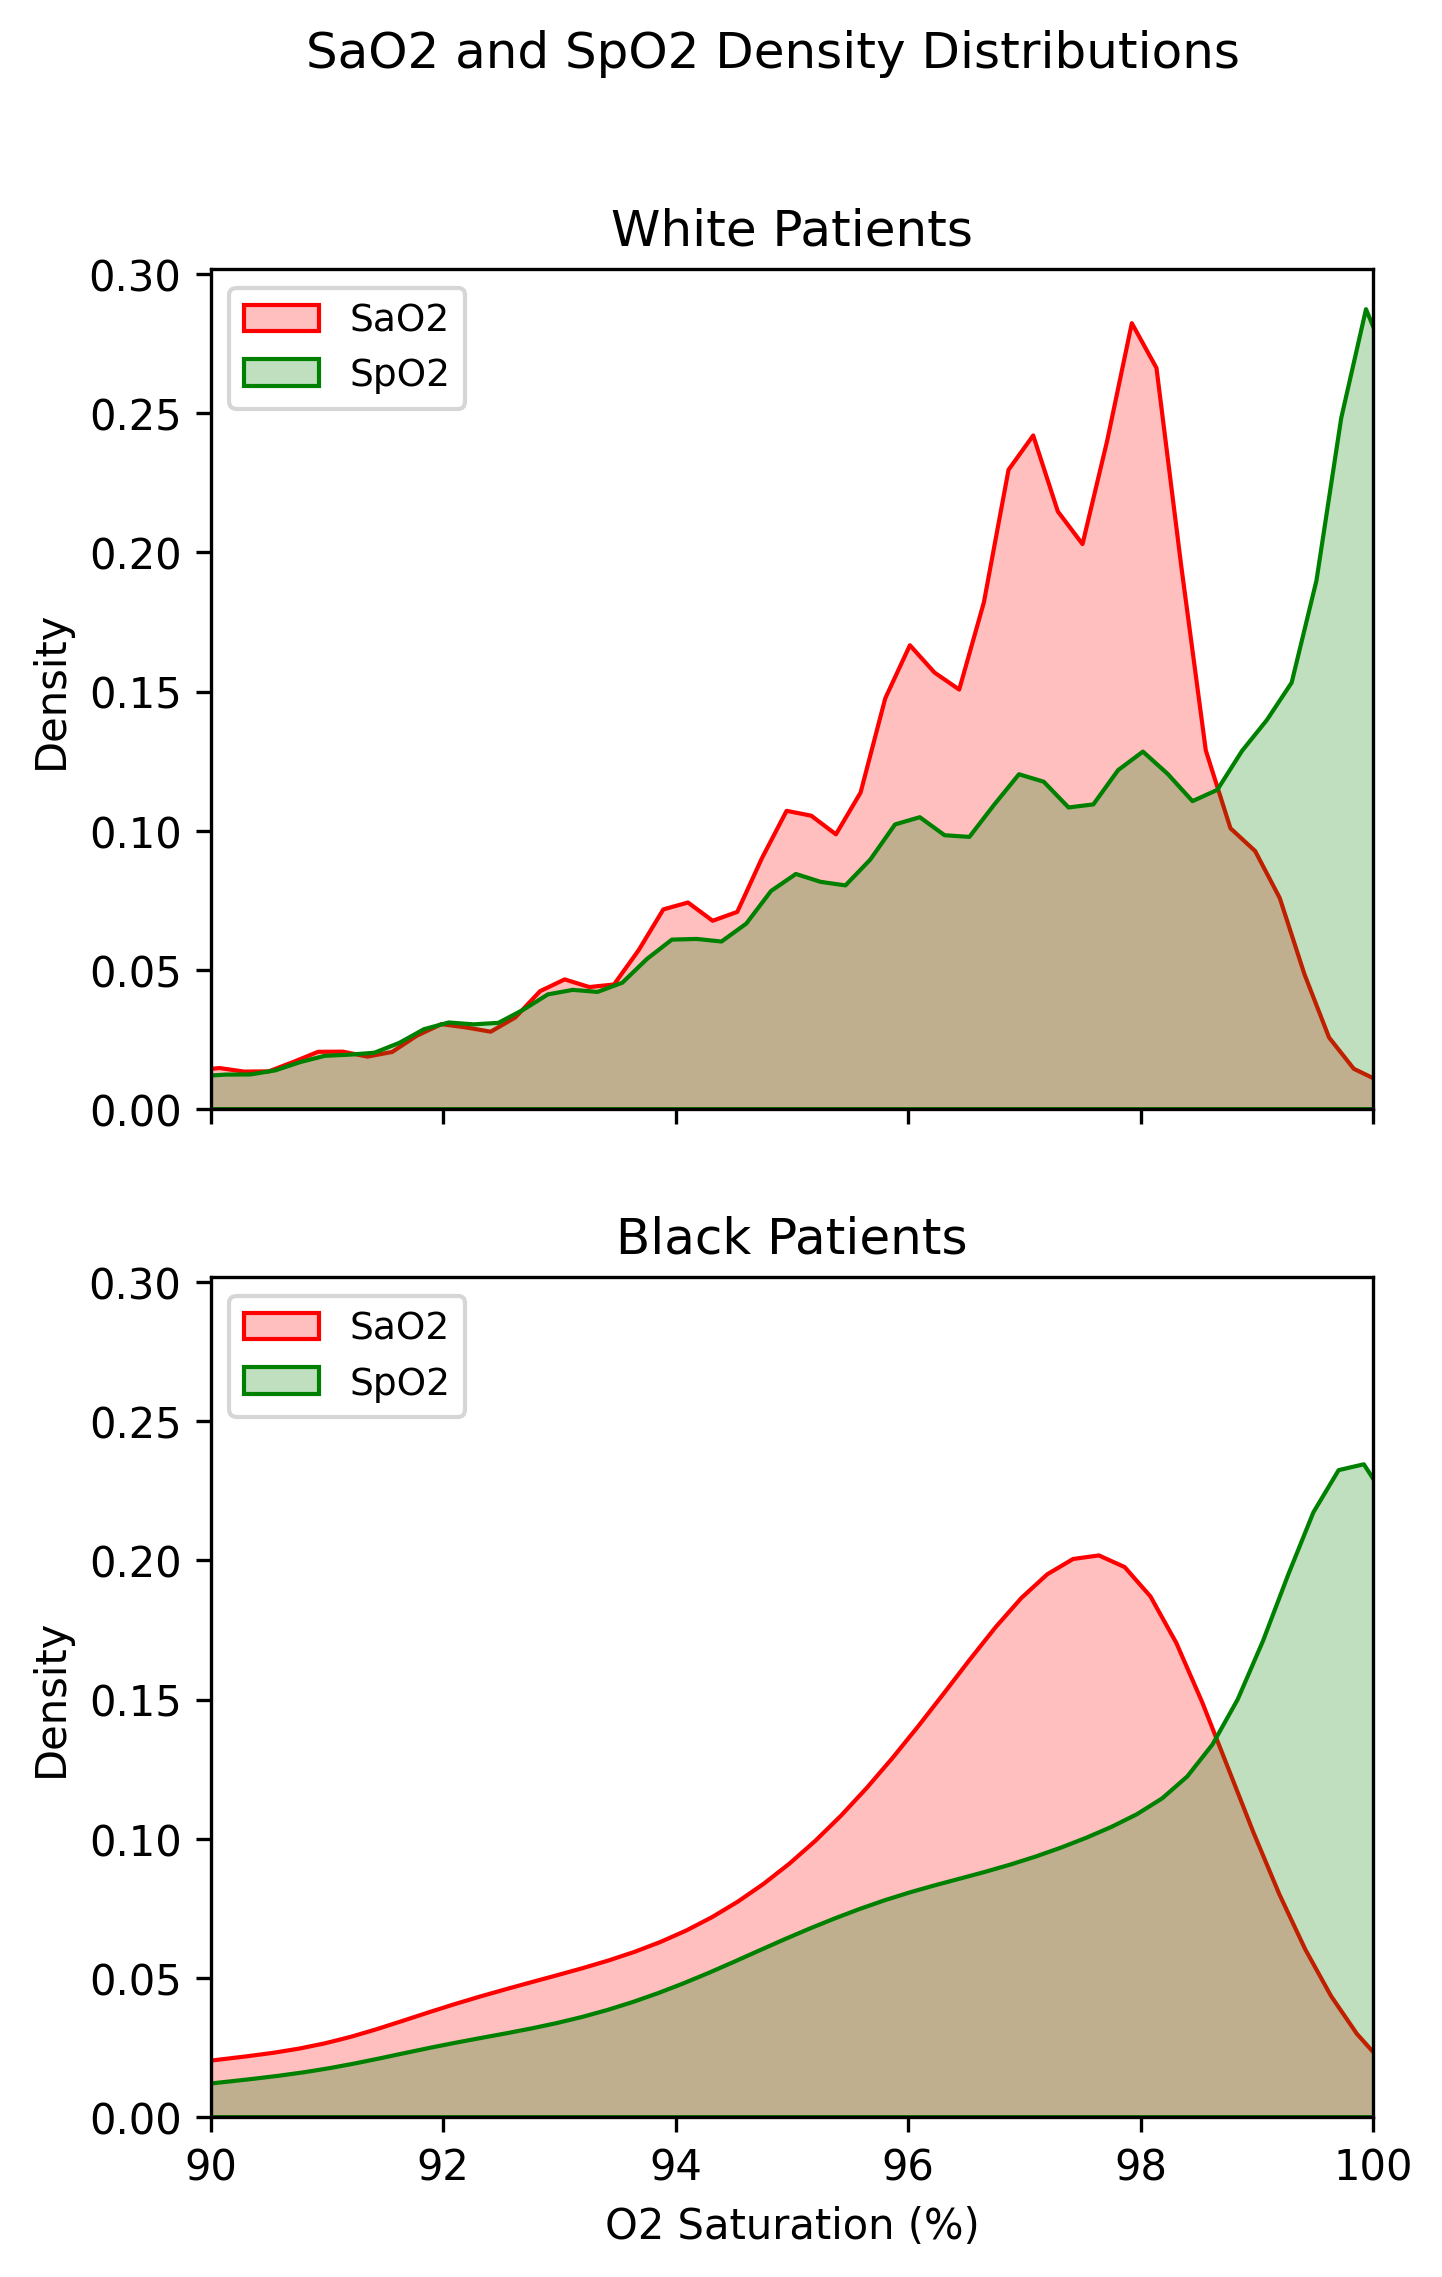
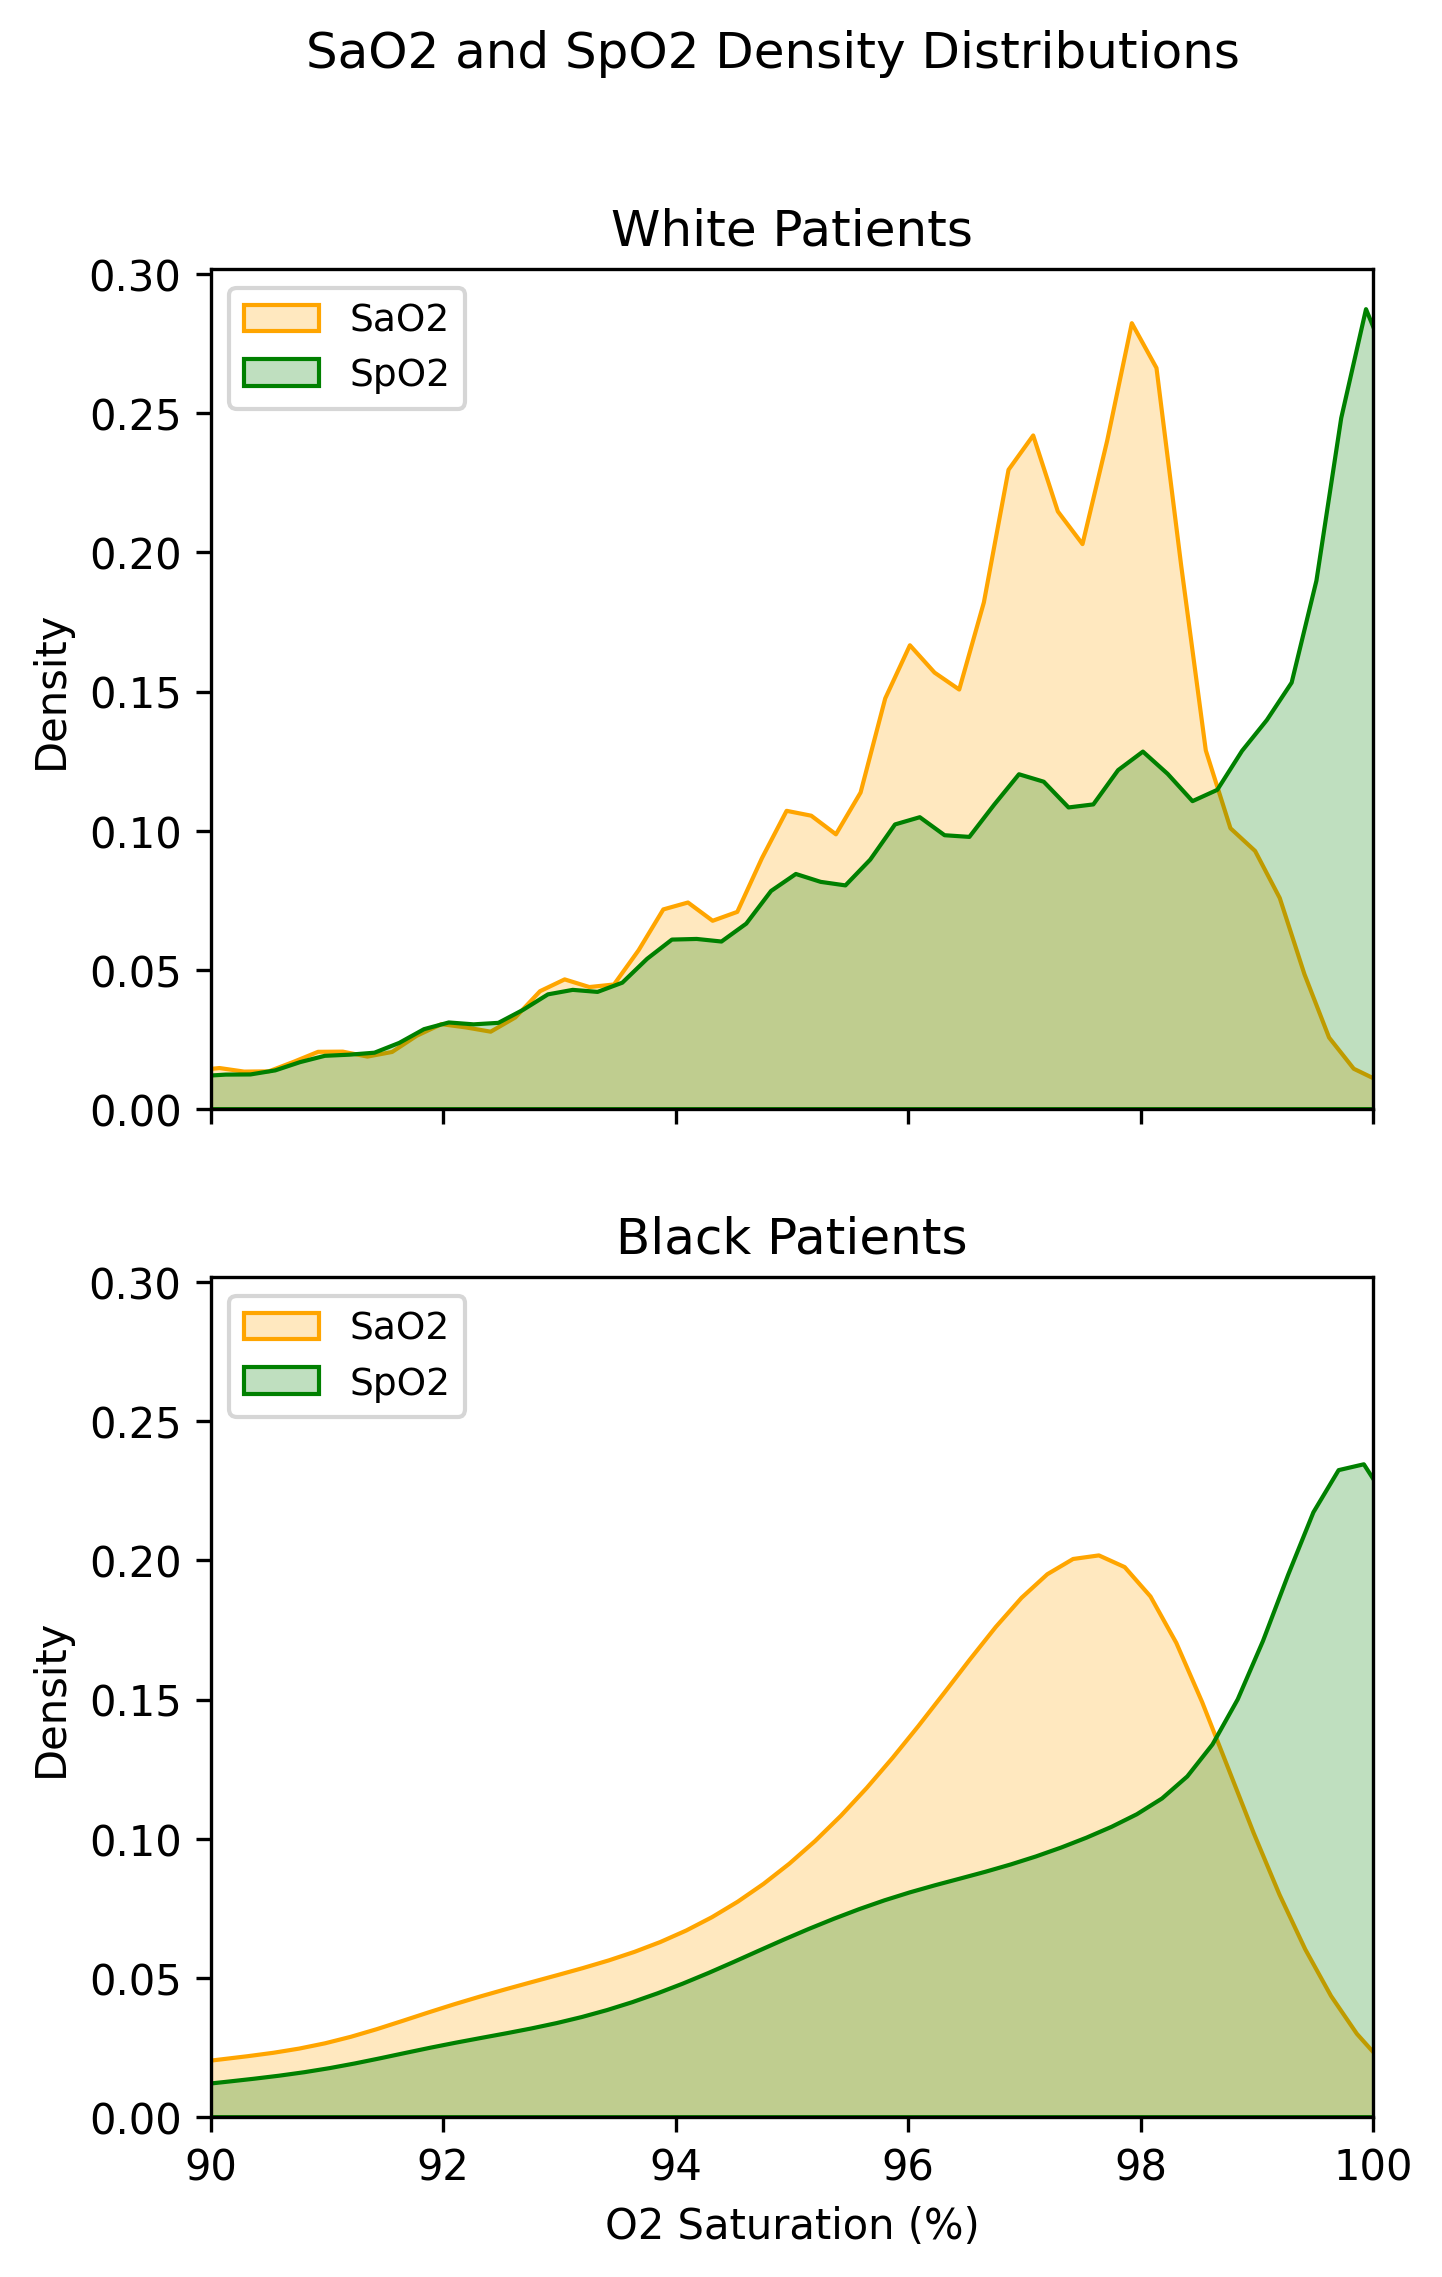
Split by subjects, evaluation metrics and fancy saving

diff --git a/src/utils.py b/src/utils.py
@@ -1,0 +1,94 @@
+import pickle 
+import pandas as pd
+import numpy as np
+from sklearn.metrics import r2_score, mean_squared_error
+from tabulate import tabulate
+
+
+def save_model(model, filename):
+    """Save a model to a file"""
+    with open(filename, 'wb') as file:
+        pickle.dump(model, file)
+
+def load_model(filename):
+    """Load a model from a file"""
+    with open(filename, 'rb') as file:
+        model = pickle.load(file)
+    return model
+
+def evaluate_model(model, X_test, y_test):
+    """Evaluate a model on a test set"""
+    # Make predictions on the validation set
+    y_pred = model.predict(X_test)
+
+    # Compute evaluation metrics on Validation
+    r2 = r2_score(y_test, y_pred)
+
+    # Adjusted R2
+    def adj_r2(r2, y_test, X_test):
+        n = len(y_test)
+        k = X_test.shape[1]
+        return 1 - (1 - r2) * (n - 1) / (n - k - 1)
+    
+    def rmse(y_test, y_pred):
+        return np.sqrt(mean_squared_error(y_test, y_pred))
+    
+    def create_results_df(y_test, X_test, y_pred, race):
+
+        label, idxs = race[0], race[1] 
+
+        # Filter the data according to race
+        y_test = y_test.loc[idxs]
+        X_test = X_test.loc[idxs]
+        y_pred = y_pred[idxs]
+    
+        bas_r2 = r2_score(y_test, X_test.SpO2)
+        bas_adj_r2 = adj_r2(bas_r2, y_test, X_test)
+        bas_rmse = rmse(y_test, X_test.SpO2)
+        bas_hh = len(X_test[(y_test.SaO2 < 88) & (X_test.SpO2 >= 88)]) / len(X_test)
+
+        model_r2 = r2_score(y_test, y_pred)
+        model_adj_r2 = adj_r2(model_r2, y_test, X_test)
+        model_rmse = rmse(y_test, y_pred)
+        model_hh = len(X_test[(y_test.SaO2 < 88) & (y_pred >= 88)]) / len(X_test)
+
+        # Create a dataframe to store the results
+        results = pd.DataFrame({'Race': [label],
+                                'N': [len(y_test)],
+                                'Baseline R\u00B2': [bas_r2],
+                                'Baseline Adj R\u00B2': [bas_adj_r2],
+                                'Baseline RMSE': [bas_rmse],
+                                'Baseline HH': [bas_hh],
+                                'Model R\u00B2': [model_r2],
+                                'Model Adj R\u00B2': [model_adj_r2],
+                                'Model RMSE': [model_rmse],
+                                'Model HH': [model_hh],
+                                'Lift R\u00B2': [model_r2 - bas_r2],
+                                'Lift Adj R\u00B2': [model_adj_r2 - bas_adj_r2],
+                                'Drop RMSE': [bas_rmse - model_rmse],
+                                'Drop HH': [bas_hh - model_hh]
+                                })
+        
+        return results
+
+    races = {'Overall': [True] * len(y_test),
+             'White': X_test.race_group == 1,
+             'Hispanic': X_test.race_group == 2,
+             'Asian': X_test.race_group == 3,
+             'Other': X_test.race_group == 4,
+             'Black': X_test.race_group == 5
+             }
+
+    results_list = []
+    for r in races.items():
+        results_list.append(create_results_df(y_test, X_test, y_pred, r))
+
+    results = pd.concat(results_list)
+    metric_order = results.columns[1:]
+    race_order = races.keys()
+    melted_df = results.melt(id_vars=['Race'], value_vars=metric_order, var_name='Metric')
+    pivoted_df = melted_df.pivot(index=['Metric'], columns='Race', values='value')
+    pivoted_df = pivoted_df[race_order].reindex(metric_order)
+
+    pivoted_df.to_excel('results/xgb_results.xlsx')
+    pivoted_df.to_latex('results/xgb_results.tex')

diff --git a/src/2_EDA_plots.py b/src/2_EDA_plots.py
@@ -3,21 +3,34 @@ from matplotlib import pyplot as plt
 import matplotlib
 matplotlib.use('TKAgg')
 import seaborn as sns
+from sklearn.metrics import r2_score
 
 from matplotlib.gridspec import GridSpec
 
 df = pd.read_csv('data/MIMIC_IV.csv')[['SaO2','SpO2', 'race_group']]
 df = df[(df.SaO2 <= 100) & (df.SpO2 <= 100) & (df.SaO2 >= 60) & (df.SpO2 >= 60)]
 
+r2 = r2_score(df.SaO2, df.SpO2)
+
 fig = plt.figure(figsize=(8,8))
 gs = GridSpec(5,5)
 
 ax_scatter = fig.add_subplot(gs[1:5, 0:4])
 
-sns.scatterplot(df, x='SpO2', y='SaO2', marker='o', alpha=0.1, ax=ax_scatter)
+df_norm = df[~((df.SaO2 < 88) & (df.SpO2 >= 88))]
+df_hypo = df[(df.SaO2 < 88) & (df.SpO2 >= 88)]
+
+hh_perc = len(df_hypo)/(len(df_norm) + len(df_hypo))*100
+
+sns.scatterplot(df_norm, x='SpO2', y='SaO2',
+                marker='o', alpha=0.1, ax=ax_scatter)
+sns.scatterplot(df_hypo, x='SpO2', y='SaO2',
+                marker='o', color="tab:red", alpha=0.1, ax=ax_scatter,
+                label="H.H")
 ax_scatter.set_xlabel('SpO2 (%)')
 ax_scatter.set_ylabel('SaO2 (%)')
 ax_scatter.grid(False)
+ax_scatter.get_legend().remove()
 
 ax_hist_x = fig.add_subplot(gs[0,0:4])
 sns.kdeplot(x=df.SpO2, ax=ax_hist_x, color='green', fill=True)
@@ -31,18 +44,18 @@ ax_hist_x.axvline(x=df.SpO2.mean(), linewidth=0.8,
 
 
 ax_hist_y = fig.add_subplot(gs[1:5, 4])
-sns.kdeplot(y=df.SaO2, ax=ax_hist_y, color='red', fill=True)
+sns.kdeplot(y=df.SaO2, ax=ax_hist_y, color='orange', fill=True)
 ax_hist_y.yaxis.set_ticklabels([])
 ax_hist_y.grid(False)
 ax_hist_y.set_ylabel('')
 ax_hist_y.set_xlim([0,.35])
 ax_hist_y.axhline(y=df.SaO2.mean(), xmin=0, xmax=1,
-                  linewidth=0.8, linestyle='--', color='red',
+                  linewidth=0.8, linestyle='--', color='orange',
                   label="SaO2 Mean")
 
 fig.legend(loc='upper right', bbox_to_anchor=(0.915, 0.85), ncol=1, fontsize=9)
 
-fig.suptitle("SaO2 vs SpO2 Distributions", fontsize=16, y=0.95)
+fig.suptitle(f"SaO2 vs SpO2: R\u00B2 = {r2:.2f}, H.H = {hh_perc:.1f}%", fontsize=16, y=0.95)
 
 fig.savefig('EDA/SaO2_SpO2.png', dpi=300, bbox_inches='tight')
 
@@ -53,7 +66,7 @@ races = ["White", "Black"]
 
 for i, r in enumerate(races):
 
-    sns.kdeplot(x=df[df.race_group == r].SaO2, ax=ax2[i], color='red', fill=True, label="SaO2")
+    sns.kdeplot(x=df[df.race_group == r].SaO2, ax=ax2[i], color='orange', fill=True, label="SaO2")
     sns.kdeplot(x=df[df.race_group == r].SpO2, ax=ax2[i], color='green', fill=True, label="SpO2")
     ax2[i].set_xlim([90,100])
     ax2[i].legend(loc='upper left', ncol=1, fontsize=9)

diff --git a/src/5_data_split.py b/src/5_data_split.py
@@ -1,0 +1,67 @@
+import pandas as pd
+from sklearn.model_selection import GroupShuffleSplit
+
+# load data
+data = pd.read_csv('data/MIMIC_IV_clean.csv')
+
+# impute missing data before split -> need to find a better way!
+data.delta_vent_start = data.delta_vent_start.fillna(0)
+data.delta_rrt = data.delta_rrt.fillna(0)
+data.delta_vp_start = data.delta_vp_start.fillna(0)
+
+fts = ['SpO2', 'delta_SpO2',
+       'anchor_age','sex_female', 'race_group', 'language',
+       'CCI', 'SOFA_admission',
+       'sofa_coag', 'sofa_liver', 'sofa_cv',
+       'sofa_cns', 'sofa_renal', 'sofa_resp','FiO2',
+       'ventilation_status', 'invasive_vent', 'rrt', 'vasopressors',
+       'delta_vent_start', 'delta_rrt', 'delta_vp_start',
+       'norepinephrine_equivalent_dose', 
+       'hemoglobin', 'hematocrit', 'mch', 'mchc', 'mcv', 'platelet',
+       'rbc', 'rdw', 'wbc', 'inr', 'pt', 'ptt', 'alt', 'alp', 'ast',
+       'bilirubin_total', 'albumin', 'aniongap',
+       'bicarbonate', 'bun', 'calcium', 'chloride', 'creatinine',
+       'glucose_lab', 'sodium', 'potassium', 'ph', 'lactate',
+       'heart_rate', 'mbp', 'resp_rate', 'temperature', 'glucose'
+      ]
+
+target = ['SaO2'] 
+
+# define X and y
+X = data[fts]
+y = data[target]
+
+# Initialize the GroupShuffleSplit object
+gss = GroupShuffleSplit(n_splits=1, test_size=0.2, random_state=42)
+
+groups = data.subject_id
+
+train_idx, test_idx = next(gss.split(X, y, groups))
+
+# train val test split
+X_train, X_test = X.iloc[train_idx], X.iloc[test_idx]
+y_train, y_test = y.iloc[train_idx], y.iloc[test_idx]
+
+# Check dimensions
+print("Train set shape: ", X_train.shape)
+print("Test set shape: ", X_test.shape)
+
+# Get the unique subject IDs in the training and testing sets
+train_subjects = set(groups.iloc[train_idx])
+test_subjects = set(groups.iloc[test_idx])
+
+# Check if there are any subjects in both sets
+if train_subjects.intersection(test_subjects):
+    print("Error: Subjects in both training and testing sets")
+else:
+    print("Subjects in training and testing sets are unique")
+
+# impute missing data after split -> check median vs mean
+X_train = X_train.fillna(X_train.mean())
+X_test = X_test.fillna(X_test.mean())
+
+# Save data, ML ready
+X_train.to_csv('data/ML/X_train.csv', index=False)
+y_train.to_csv('data/ML/y_train.csv', index=False)
+X_test.to_csv('data/ML/X_test.csv', index=False)
+y_test.to_csv('data/ML/y_test.csv', index=False)

diff --git a/results/xgb_results.tex b/results/xgb_results.tex
@@ -1,0 +1,19 @@
+\begin{tabular}{lrrrrrr}
+\toprule
+Race &       Overall &         White &    Hispanic &       Asian &        Other &        Black \\
+\midrule
+N               &  17122.000000 &  11277.000000 &  592.000000 &  477.000000 &  3581.000000 &  1195.000000 \\
+Baseline R²     &     -0.263553 &     -0.269938 &   -0.722019 &   -0.089932 &    -0.199912 &    -0.343725 \\
+Baseline Adj R² &     -0.267699 &     -0.276277 &   -0.902268 &   -0.235256 &    -0.218980 &    -0.409848 \\
+Baseline RMSE   &      3.666199 &      3.520569 &    4.011175 &    3.579583 &     3.906200 &     4.100005 \\
+Baseline HH     &      0.015302 &      0.013124 &    0.013514 &    0.014675 &     0.019548 &     0.024268 \\
+Model R²        &      0.390999 &      0.381546 &    0.208859 &    0.373043 &     0.430647 &     0.395714 \\
+Model Adj R²    &      0.389000 &      0.378459 &    0.126048 &    0.289449 &     0.421599 &     0.365978 \\
+Model RMSE      &      2.545238 &      2.456831 &    2.718814 &    2.714886 &     2.690734 &     2.749479 \\
+Model HH        &      0.015360 &      0.014011 &    0.016892 &    0.012579 &     0.017593 &     0.021757 \\
+Lift R²         &      0.654552 &      0.651484 &    0.930878 &    0.462975 &     0.630558 &     0.739439 \\
+Lift Adj R²     &      0.656700 &      0.654736 &    1.028316 &    0.524705 &     0.640579 &     0.775826 \\
+Drop RMSE       &      1.120961 &      1.063738 &    1.292361 &    0.864697 &     1.215466 &     1.350526 \\
+Drop HH         &     -0.000058 &     -0.000887 &   -0.003378 &    0.002096 &     0.001955 &     0.002510 \\
+\bottomrule
+\end{tabular}

diff --git a/src/3_data_clean.py b/src/3_data_clean.py
@@ -2,6 +2,9 @@ import pandas as pd
 
 df = pd.read_csv('data/MIMIC_IV.csv')
 
+# Clamp values to 60-100
+df = df[(df.SaO2 <= 100) & (df.SpO2 <= 100) & (df.SaO2 >= 60) & (df.SpO2 >= 60)]
+
 # Drop features with high missingness, as reported in table 1 raw
 df = df.drop(columns=['BMI', 'd_dimer', 'fibrinogen', 'thrombin',
                       'bilirubin_direct', 'bilirubin_indirect',
@@ -24,6 +27,8 @@ df['race_group'] = df['race_group'].map({'White': 1,
                                          'Other': 4,
                                          'Black': 5})
 
+df['vasopressors'] = df.norepinephrine_equivalent_dose.apply(lambda x: 1 if x > 0 else 0)
+
 # Replace nan with 0 in SOFA -> Assuming best case scenario
 df['sofa_coag'] = df['sofa_coag'].fillna(0)
 df['sofa_liver'] = df['sofa_liver'].fillna(0)
@@ -44,7 +49,7 @@ df['ventilation_status'] = df['ventilation_status'].fillna(0)
 df['FiO2'] = df['FiO2'].fillna(21) # Room Air O2 %
 
 # Let's keep just the first pair per patient (it's been sorted by subject_id, stay_id,time)
-df_final = df.groupby('subject_id').first().reset_index()
+df_final = df#.groupby('subject_id').first().reset_index()
 
 print(f"{(len(df) - len(df_final))/len(df)*100:.2f}% rows dropped \
       \n{len(df_final)} rows remaining")

diff --git a/src/4_table1.py b/src/4_table1.py
@@ -34,7 +34,6 @@ nonnormal = ['SaO2', 'SpO2', 'delta_SpO2', 'sao2-spo2', 'anchor_age',
              'heart_rate', 'mbp', 'resp_rate', 'temperature', 'glucose']
 
 # Categorical Variables
-data['vasopressors'] = data.norepinephrine_equivalent_dose.apply(lambda x: "Received" if x > 0 else "No")
 
 data['race_group'] = data['race_group'].map({1: 'White',
                                              2: 'Hispanic',
@@ -49,6 +48,7 @@ data['ventilation_status'] = data['ventilation_status'].map({0: 'None',
                                                              4: 'Tracheostomy'})
 
 data['gender'] = data['gender'].map({'F': 'Female', 'M': 'Male'})
+data['vasopressors'] = data['vasopressors'].map({1: 'Received', 0: 'No'})
 data['rrt'] = data['rrt'].map({1: 'Received', 0: 'No'})
 data['invasive_vent'] = data['invasive_vent'].map({1: 'Received', 0: 'No'})
 data['hidden_hypoxemia'] = data['hidden_hypoxemia'].map({1: 'Present', 0: 'No'})

diff --git a/src/6_train.py b/src/6_train.py
@@ -1,0 +1,24 @@
+from utils import *
+
+from sklearn.model_selection import GridSearchCV
+import xgboost as xgb
+
+# Load data, already split 80-20
+X_train = pd.read_csv('data/ML/X_train.csv')
+y_train = pd.read_csv('data/ML/y_train.csv')
+
+# model
+# Create an XGBoost regressor
+model = xgb.XGBRegressor()
+
+model.fit(X_train, y_train)
+
+# Save the model to a file
+filename = "models/xgboost.pkl"
+save_model(model, filename)
+
+# Evaluate Model
+evaluate_model(model, X_train, y_train)
+
+
+

diff --git a/src/7_test.py b/src/7_test.py
@@ -1,0 +1,14 @@
+from utils import *
+
+
+# Load test data
+X_test = pd.read_csv('data/ML/X_test.csv')
+y_test = pd.read_csv('data/ML/y_test.csv')
+
+# Load the model from a file
+filename = "models/xgboost.pkl"
+model = load_model(filename)
+
+# Make predictions on the validation set
+evaluate_model(model, X_test, y_test)
+
